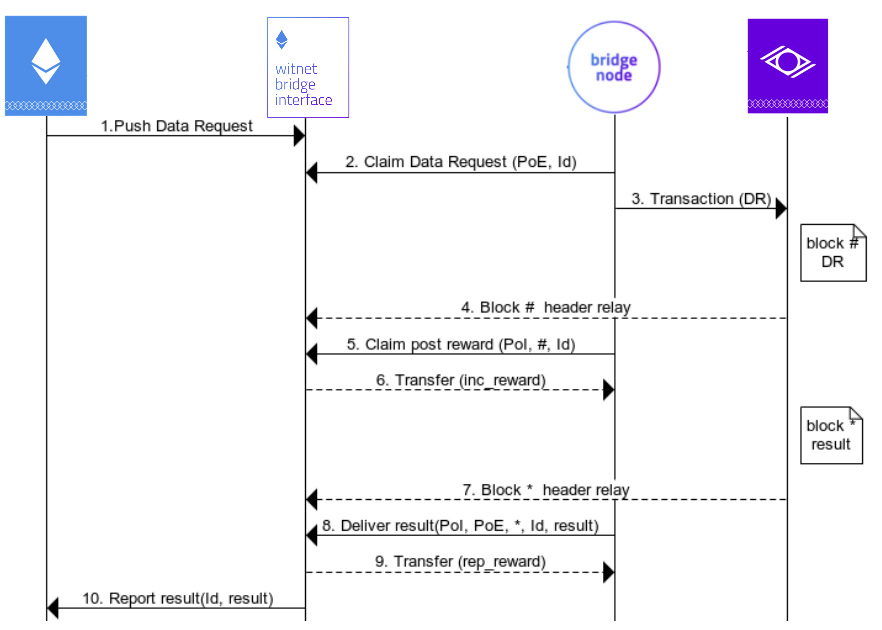
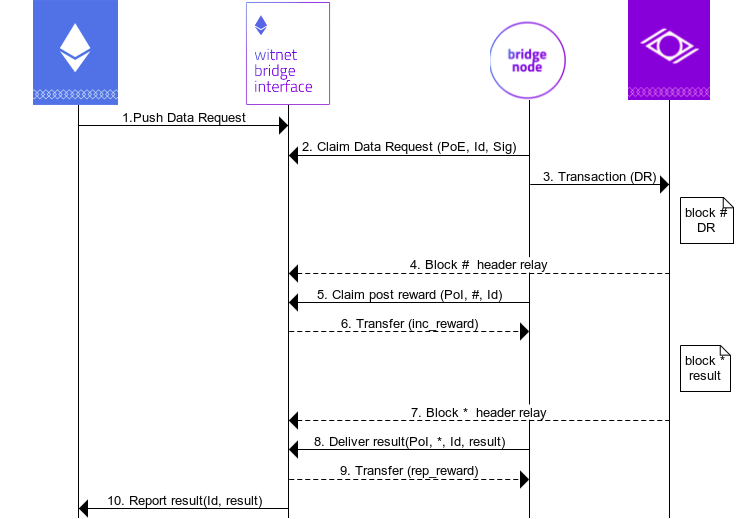
zdoc: slight modification with respect to the WBI

diff --git a/bridge/docs/WBI.md b/bridge/docs/WBI.md
@@ -1,9 +1,9 @@
 # WITNET BRIDGE INTERFACE
 
-Witnet is a Decentralized Oracle Network aiming at serving smart contracts that cannot fetch data from the outside world. For such goal to be accomplished, the Witnet network and smart contract platforms need to have a way to interact with each other in a trustless way. The Witnet Bridge Interface (WBI) is a smart contract in charge of facilitaing this communication.
+Witnet is a Decentralized Oracle Network aiming at serving smart contracts that cannot fetch data from the outside world. For such goal to be accomplished, the Witnet network and smart contract platforms need to have a way to interact with each other in a trustless way. The Witnet Bridge Interface (WBI) is a smart contract in charge of facilitating this communication.
 
 ## Goals of the WBI
-The WBI will have 3 clear goals that needs to accomplish
+The WBI will have 3 clear goals that needs to accomplish:
 
 - It should facilitate the inclusion of a data request transactions specified by smart contracts in the Witnet blockchain.
 
@@ -27,7 +27,7 @@ We introduce the notion of __bridge nodes__, whose goal is to monitor the WBI lo
 
 The functionality provided by the bridge nodes can be clearly defined in three main points:
 
-- Data request reading from WBI and inclusion in WItnet
+- Data request reading from WBI and inclusion in Witnet
 - Result reading from Witnet and reporting to the WBI
 - Block header relay
 
@@ -84,7 +84,7 @@ __Data Request Inclusion__:
 
 - 1. A smart contract pushes a data request into the WBI specifying the rewards that both its inclusion and its result reporting will generate for the bridge node.
 
-- 2. A bridge node realizes its leadership position and reads all the unassigned requests that have been posted to the WBI contract. The WBI verifies the Proof of Eligibility and if valid, locks the eth for a certain amount of time. This will be rewarded to the bridge node upon PoI verification. If a valid PoI is not presented on time, eth ETC will be locked for the next bridge willing to include it.
+- 2. A bridge node realizes its leadership position and reads all the unassigned requests that have been posted to the WBI contract. For this purpose, it reports both a Proof of Eligibility and a signed addres to which the reward will be assigned. It is important that both the eligibility and signature are produced with the same private key. The WBI verifies the Proof of Eligibility and the signature and if valid, locks the eth for a certain amount of time. This will be rewarded to the bridge node upon PoI verification. If a valid PoI is not presented on time, the ETH will be locked for the next bridge willing to include it.
 
 - 3. The bridge node “cross-posts” the data request into the Witnet blockchain.
 
@@ -98,9 +98,11 @@ __Result Delivery__:
 
 - 7. The data request is resolved in Witnet and its result is stored in block *, whose header is relayed to the WBI.
 
-- 8. A (possibly different) bridge node realizes the result is ready to be sent back to the WBI, and posts it with the Proof of Eligibility and Proof of Inclusion. The contract internally verifies both proofs.
+- 8. A (possibly different) bridge node realizes the result is ready to be sent back to the WBI, and posts it with the Proof of Inclusion. The contract internally verifies the proof.
 
-- 9. Upon succesful verification of both proofs, the WBI sends the result reporting reward to the contract caller.
+- 9. Upon succesful verification, the WBI sends the result reporting reward to the contract caller.
+   - 9.1. Alternatively the result will be available in the contrat to be requested by the contract caller.
+
 
 - 10. The result is either reported back or read from the requesting Smart Contract.
 
@@ -130,28 +132,6 @@ solidity. Includes merkle proof verification.
 
 ## WBI API
 
-
-- __Post_DR__ (DR, reward)->Id: posts the data request script in the WBI while specifying the reward for:
-  - The data request poster node.
-  - The result deliver node.
-  - The block header relayer node(s).
-
-- __Upgrade_reward (Id, reward)__: Upgrades the reward of a data request with a specific Id in the Witnet Bridge Interface. This function can be used in case the initially specified reward is not sufficient incentive for bridge nodes to include the data request.
-
-- __Claim_DRs (Ids, PoE)__: Claim one or more data request for posting in Witnet. The PoE needs to be verified in the WBI.
-
-- __Claim_post_reward (Id, PoI, block)__: Upon provision of a Proof of Inclusion and the block and the data request id it belongs to, unlock the eth and reward the claimed address.
-
-- __Report_result (Id, PoI, PoE, block, result)__: Unlock eth to the senders address upon provision of:
-  - Id: The DR Id for which we are reporting the result.
-  - PoE validating the eligibility to become a leader.
-  - PoI validating the inclusion of a tally output for a data request.
-  - Block: the block number where the inclusion happened.
-  - result: The reult of the DR.
-
-- __Read_result (Id)__: Reads the result in the WBI for a data request Id.
-
-- __Report_block_header__: TBD.
-- __Propose_block__: TBD.
+The WBI API can be checked in https://github.com/witnet/witnet-ethereum-bridge
 
 

diff --git a/bridge/docs/state_of_the_art.md b/bridge/docs/state_of_the_art.md
@@ -67,7 +67,7 @@ One can unlock ETC back again in the following way:
 
 [Waterloo](https://blog.kyber.network/) serves as a bridge connecting EOS and Ethereum. The fundamentals are pretty similar to the already explained verification (SPV), token transfer and relaying incentives. The main difference comes from the EOS block relay part, for which we need to take a look at how consensus is achieved in EOS.
 
-EOS uses delegated Proof of Stake as consensus algorithm. EOS holders vote for their prefered block producer and the 21 that received more votes are in charge of producing blocks following a round robin scheme. This voting happens on chain and therefore the outcome of the process is pinned in the block header. Under the assumption that 2/3 +1 of the block producer comittee is honest, __a block B is final when 15 of them have extended it__.
+EOS uses delegated Proof of Stake (dPOS) as consensus algorithm. EOS holders vote for their prefered block producer and the 21 that received more votes are in charge of producing blocks following a round robin scheme. This voting happens on chain and therefore the outcome of the process is pinned in the block header. Under the assumption that 2/3 +1 of the block producer comittee is honest, __a block B is final when 15 of them have extended it__.
 
 The most important fact from this process is that any change on the set of Block Producers is recorded in the block header. In order to reduce latency, every time a change on the set of BPs happens, a merkle root of the merkle tree for the previous blocks (validated by the previous set of BPs) is signed by the new set of BPs and submitted to the contract (we call this an __irreversible block__).  Whenever a transaction is needed to be verified, the proof consists of:
 
@@ -88,9 +88,9 @@ Obviously these prove that the transaction was included in a block signed by the
 
 ## Dogethereum
 
-[Dogethereum](https://github.com/dogethereum) aims at providing interaction between Dogecoin and Ethereum, also providing the 2-way peg capability. Once again, its functionality is very similar to the previous bridges. Verification of transactions is performed with   a merkle proof, 2-way peg is achieved by having a __locking and a mint/burn contract__ and it also reduces costs by submitting superblock headers instead of all block headers in Dogecoin. Unlike Waterloo, Dogecoin has a constant number of blocks that are contained in a superblock merkle tree (60). The incentives for submitting superblocks are the fees the relayers collect if a transaction is proven to belong to the superblock.
+[Dogethereum](https://github.com/dogethereum) aims at providing interaction between Dogecoin and Ethereum, also providing the 2-way peg capability. Once again, its functionality is very similar to the previous bridges. Verification of transactions is performed with a merkle proof, 2-way peg is achieved by having a __locking and a mint/burn contract__ and it also reduces costs by submitting superblock headers instead of all block headers in Dogecoin. Unlike Waterloo, Dogecoin has a constant number of blocks that are contained in a superblock merkle tree (60). The incentives for submitting superblocks are the fees the relayers collect if a transaction is proven to belong to the superblock.
 
-Perhaps the only difference comes from the fact that superblocks can be challenged by locking doges. A superblock submitter is required to make a deposit. If challenged, the challenger makes a deposit and request the list of block hashes. If the superblock submitter fails to prove  it validity, this is discarded and the challenger is rewarded with the deposit. If the challenger fails, the submitter gets rewarded with the challengers deposit. The submitters deposit remains locked until it is comfirmed by the following superblocks.
+Perhaps the only difference comes from the fact that superblocks can be challenged by locking doges. A superblock submitter is required to make a deposit. If challenged, the challenger makes a deposit and request the list of block hashes. If the superblock submitter fails to prove its validity, this is discarded and the challenger is rewarded with the deposit. If the challenger fails, the submitter gets rewarded with the challengers deposit. The submitters deposit remains locked until it is comfirmed by the following superblocks.
 
 ## Conclusions
 
